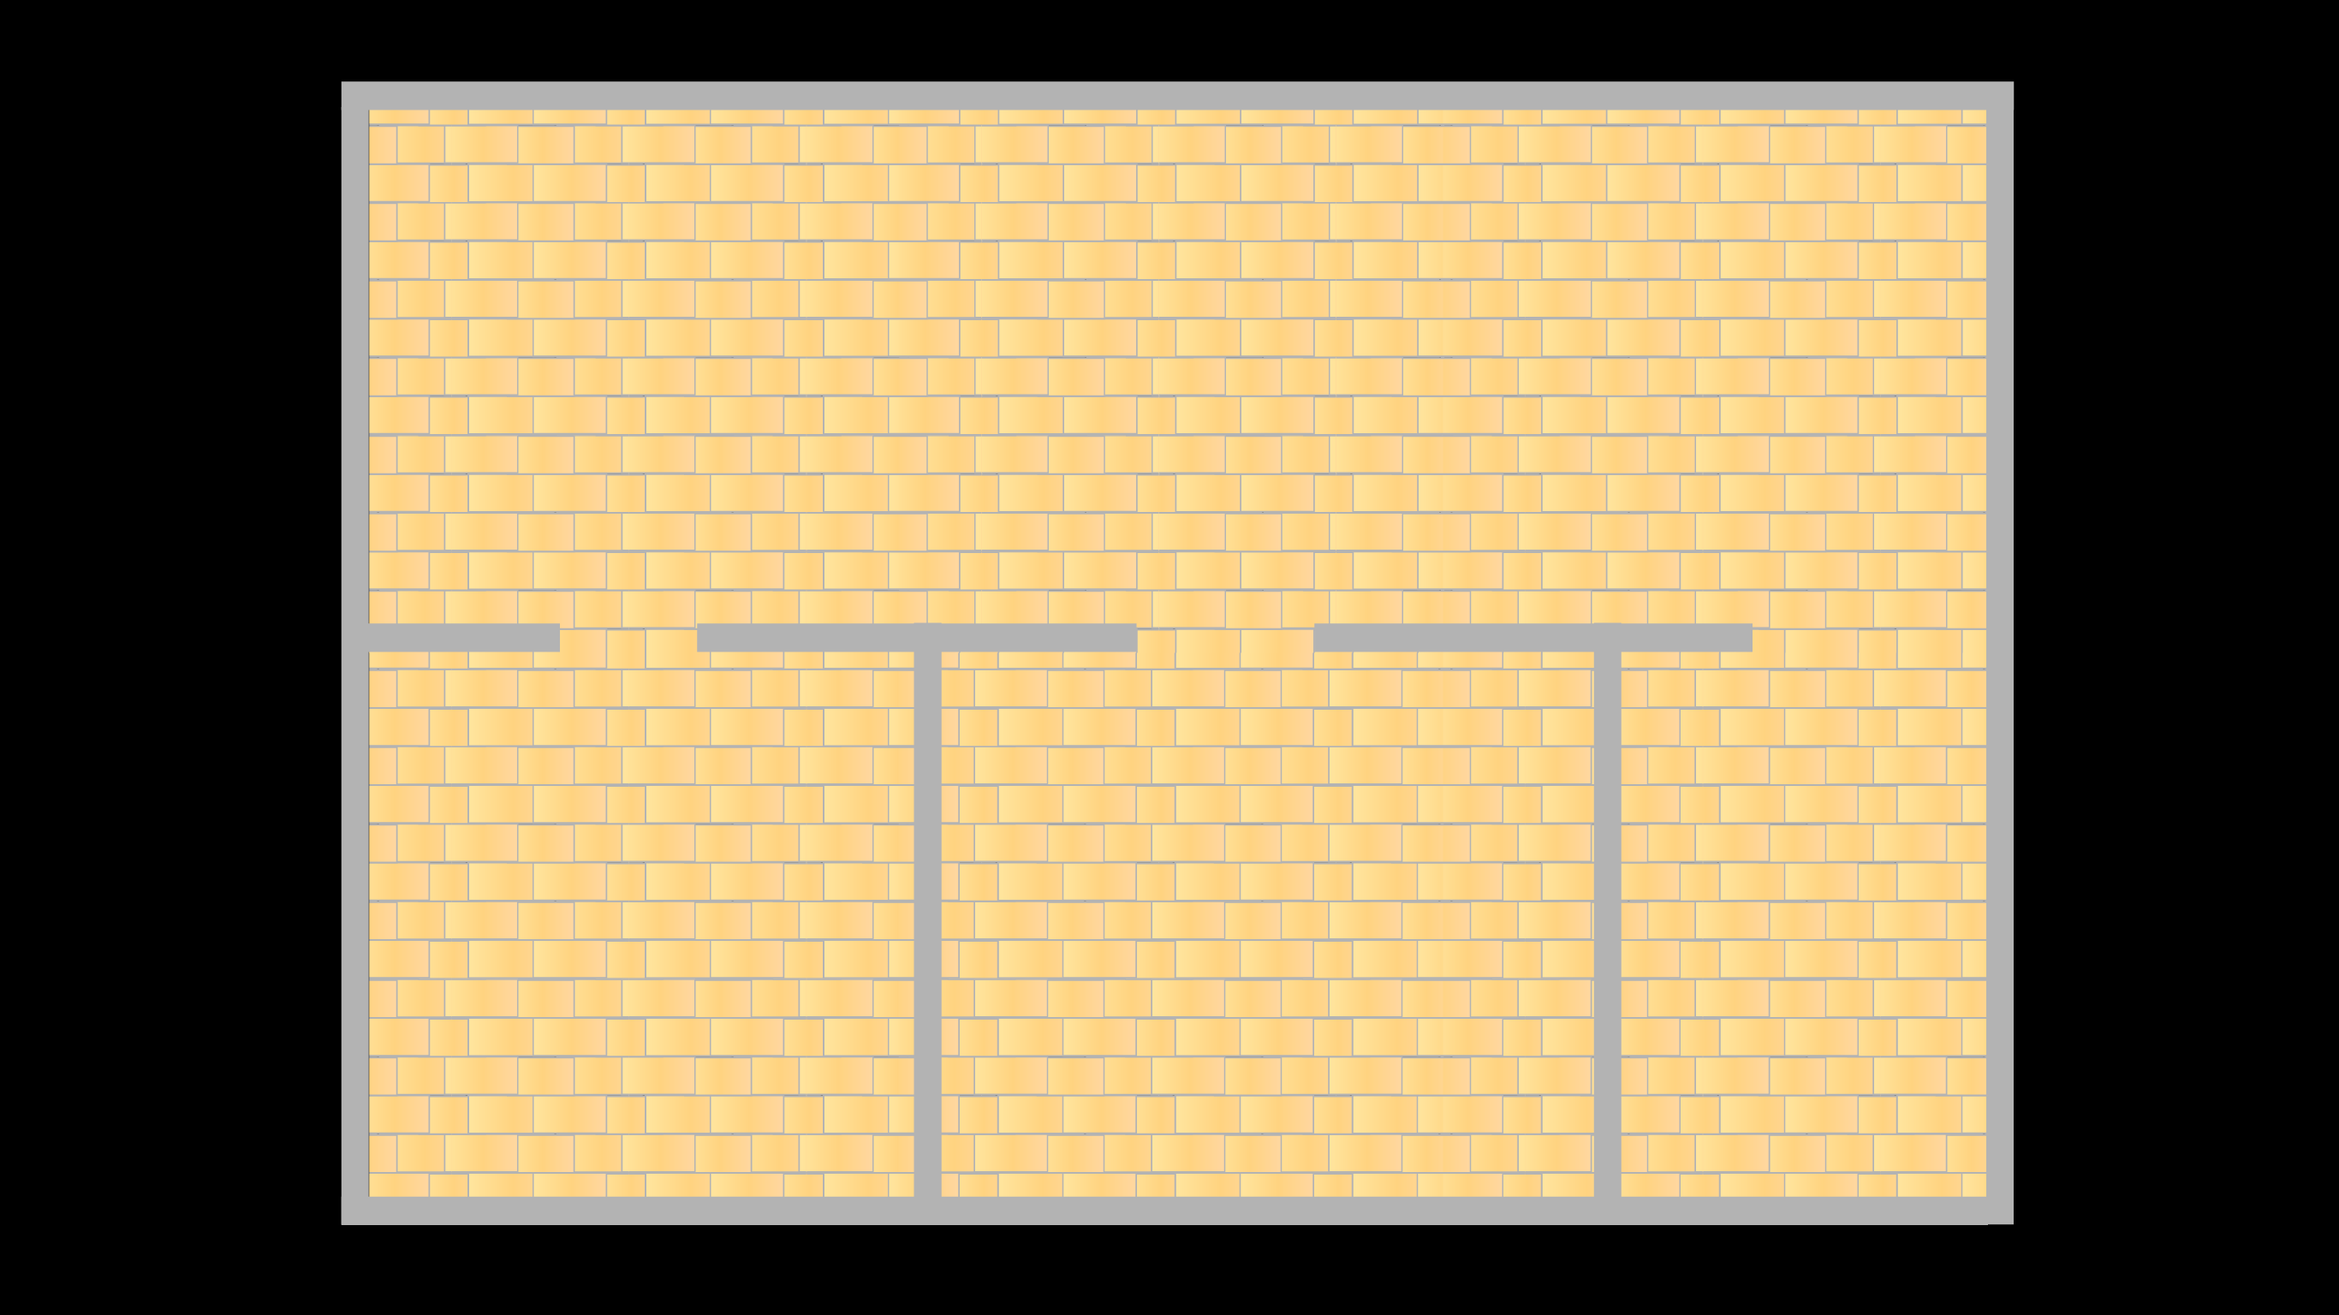
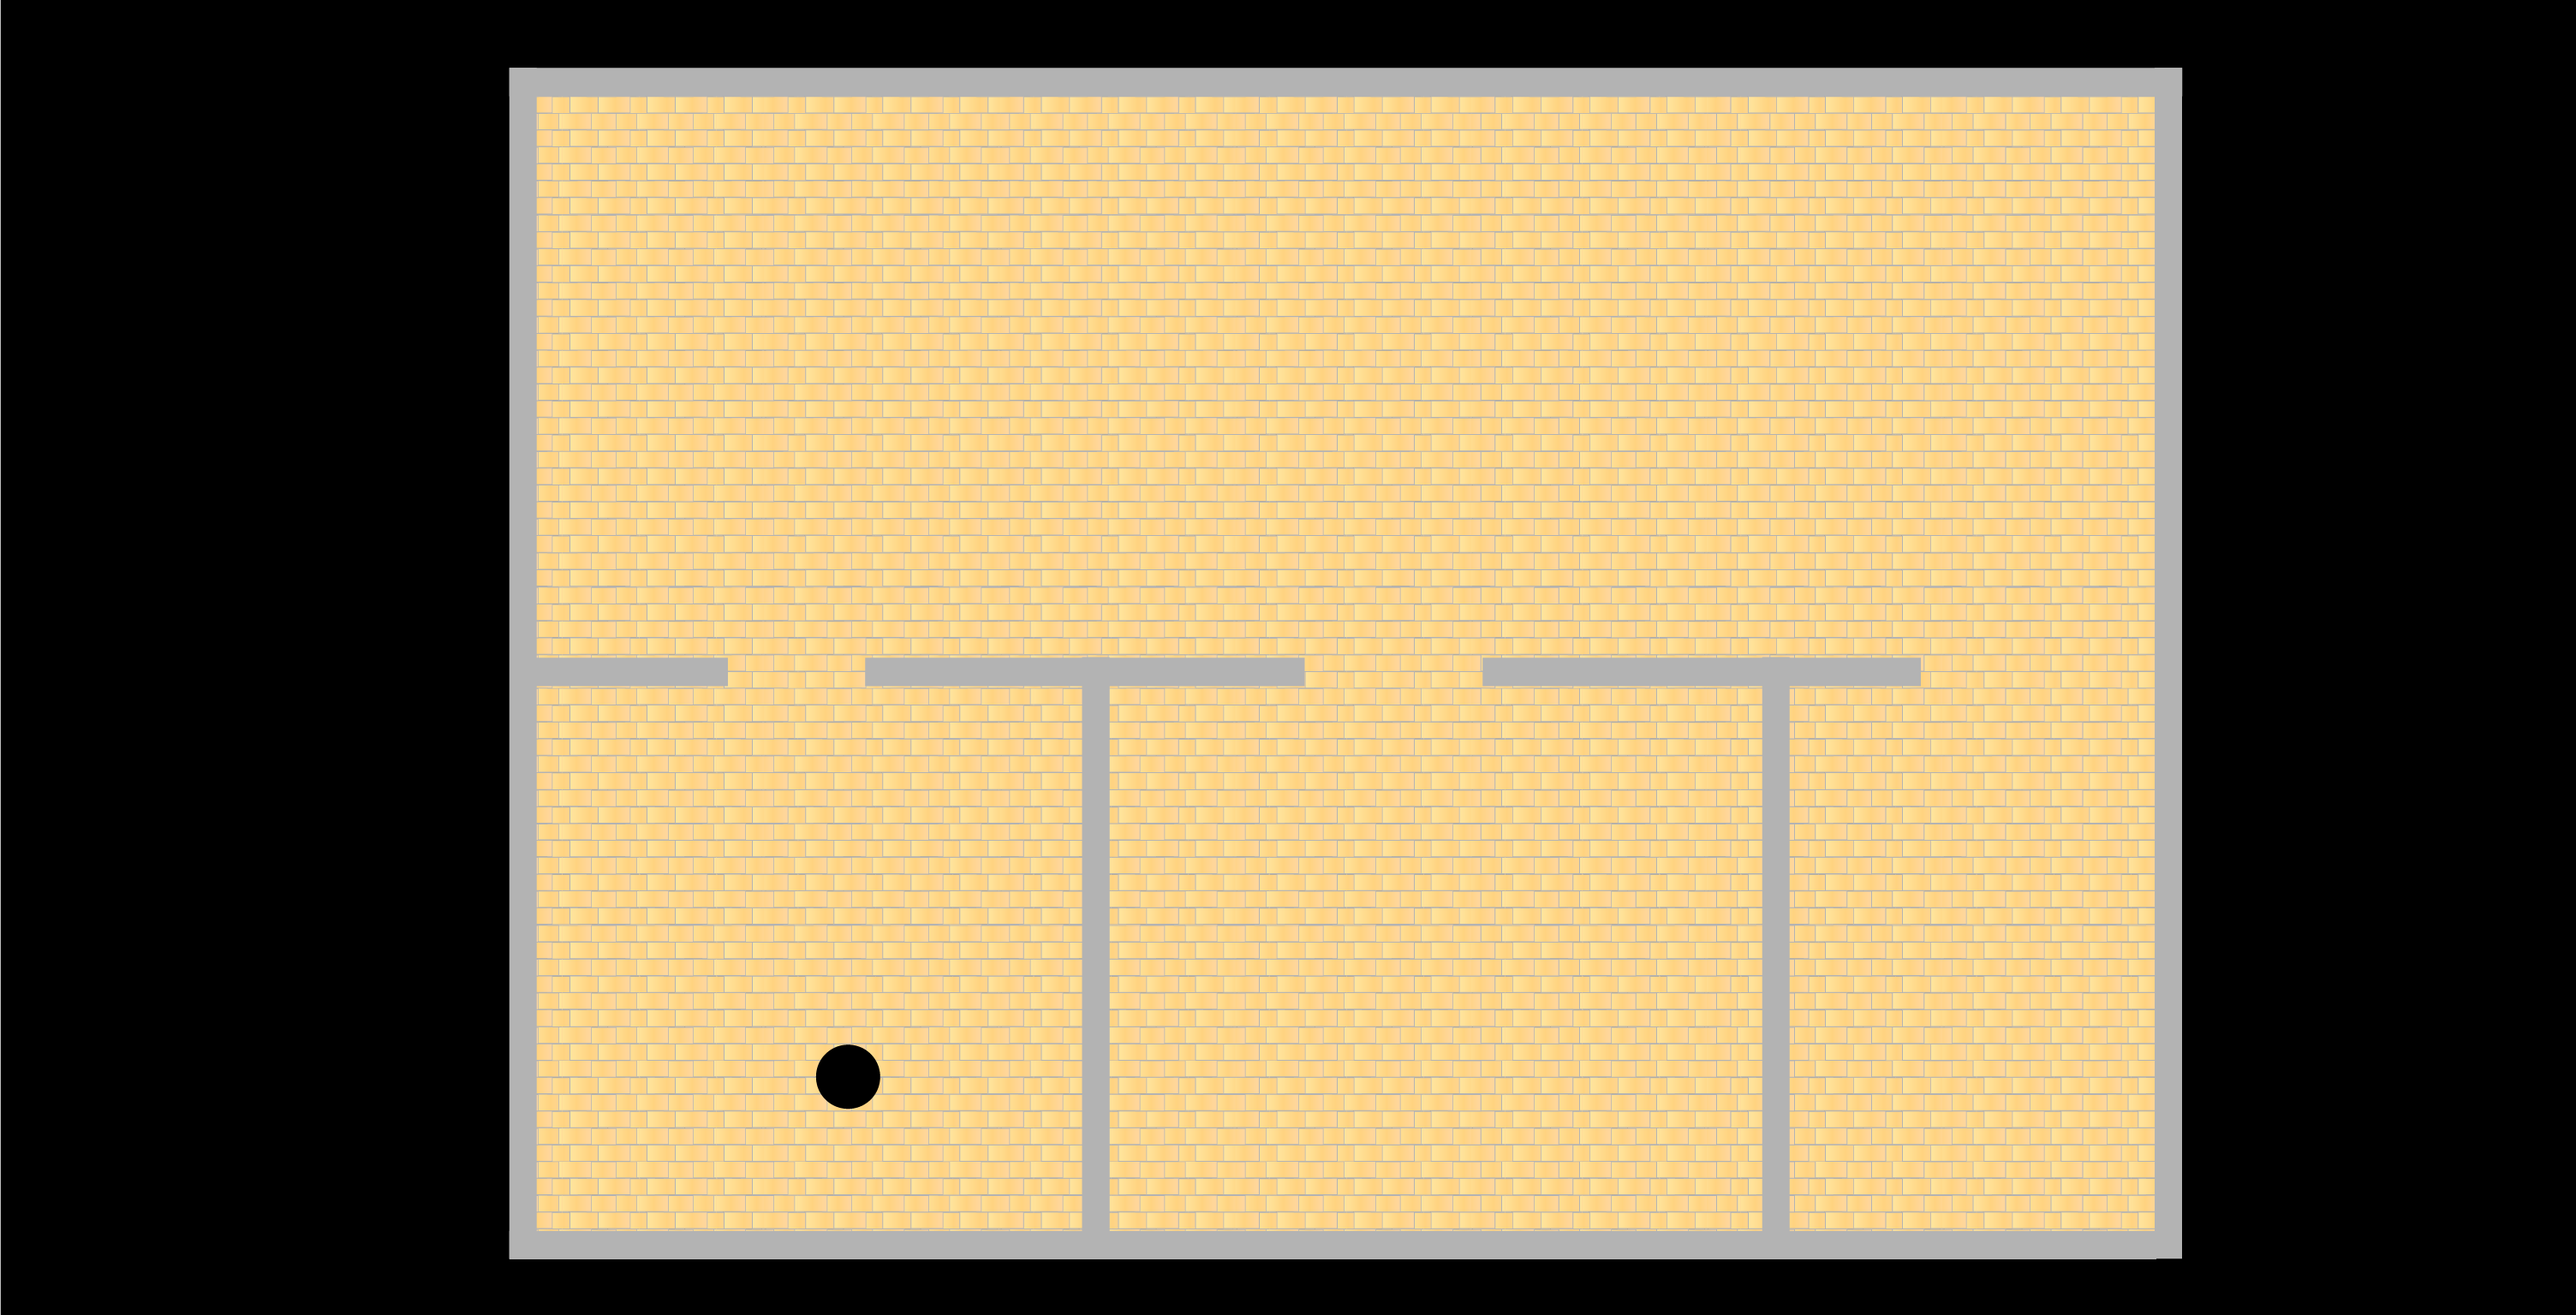
sprite animation

Changed region(s): [[0.1245, 0.0312, 0.8712, 0.9688]]

diff --git a/src/js/classes/states/GameState.js b/src/js/classes/states/GameState.js
@@ -1,4 +1,5 @@
 let button;
+let player;
 
 export default class GameState extends Phaser.State {
   init() {
@@ -10,11 +11,14 @@ export default class GameState extends Phaser.State {
     this.load.image('startScreen', 'assets/start-screen.jpg');
     this.load.image('button', 'assets/buttons/start-button.png', 433, 122);
     this.load.image('map', 'assets/map.png', 2732, 1536);
-    this.load.image('player', 'assets/player.png', 75, 75);
+    // this.load.image('player', 'assets/player.png', 75, 75);
+    this.load.spritesheet('player', 'assets/player-tileset.png', 36, 50);
 
 
   }
   create() {
+
+    this.world.setBounds(0, 0, 1366, 768);
 
     this.background = this.add.tileSprite(0, 0, this.game.width, this.game.height, 'startScreen');
 
@@ -23,6 +27,8 @@ export default class GameState extends Phaser.State {
 
     button.onInputOver.add(this.over, this);
     button.onInputOut.add(this.out, this);
+
+
   }
   update() {}
 
@@ -43,6 +49,9 @@ export default class GameState extends Phaser.State {
     console.log('Start game');
     button.inputEnabled = false;
     this.background = this.add.tileSprite(0, 0, this.game.width, this.game.height, 'map');
-    this.player = this.add.sprite(this.game.width / 2, this.game.height / 2, 'player');
+    // player = this.add.sprite(this.game.width / 2, this.game.height / 2, 'player', 7);
+    player = this.add.sprite(this.game.width / 2, this.game.height / 2, 'player');
+    player.animations.add('walk');
+    player.animations.play('walk', 10, true);
   }
 }
